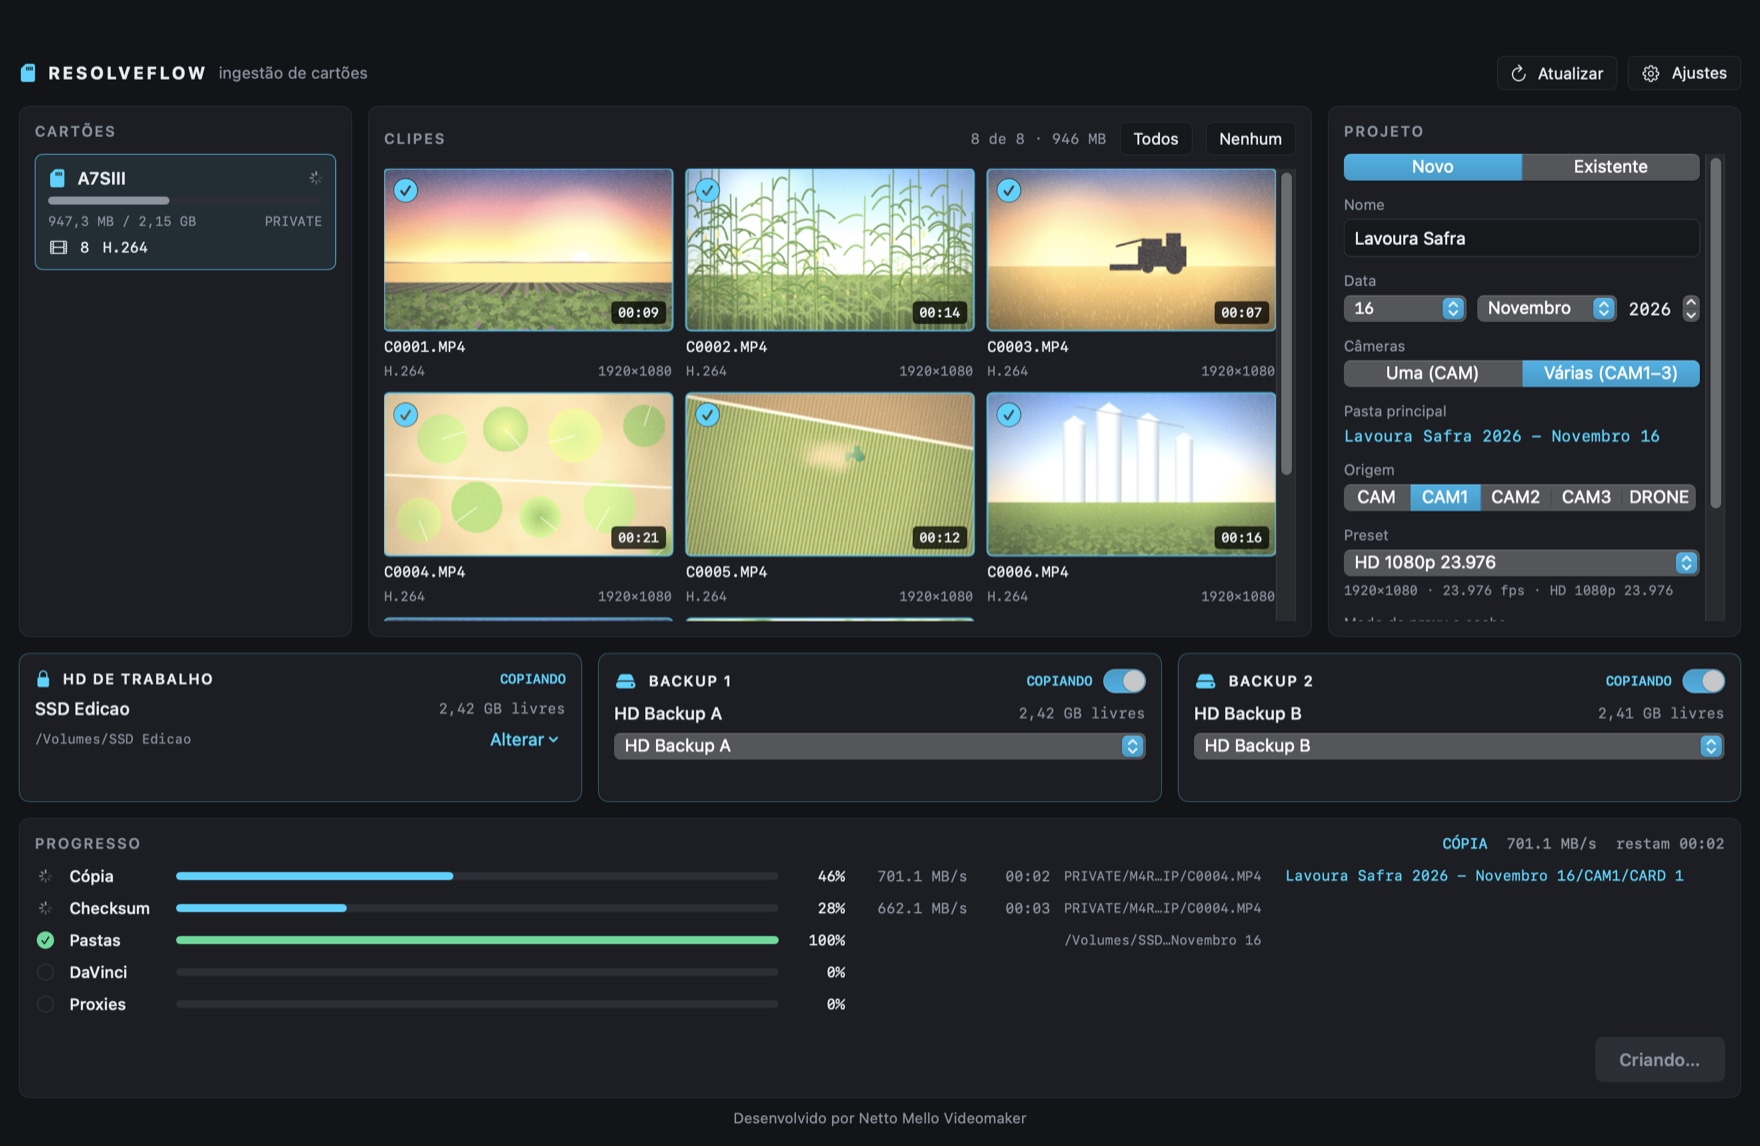
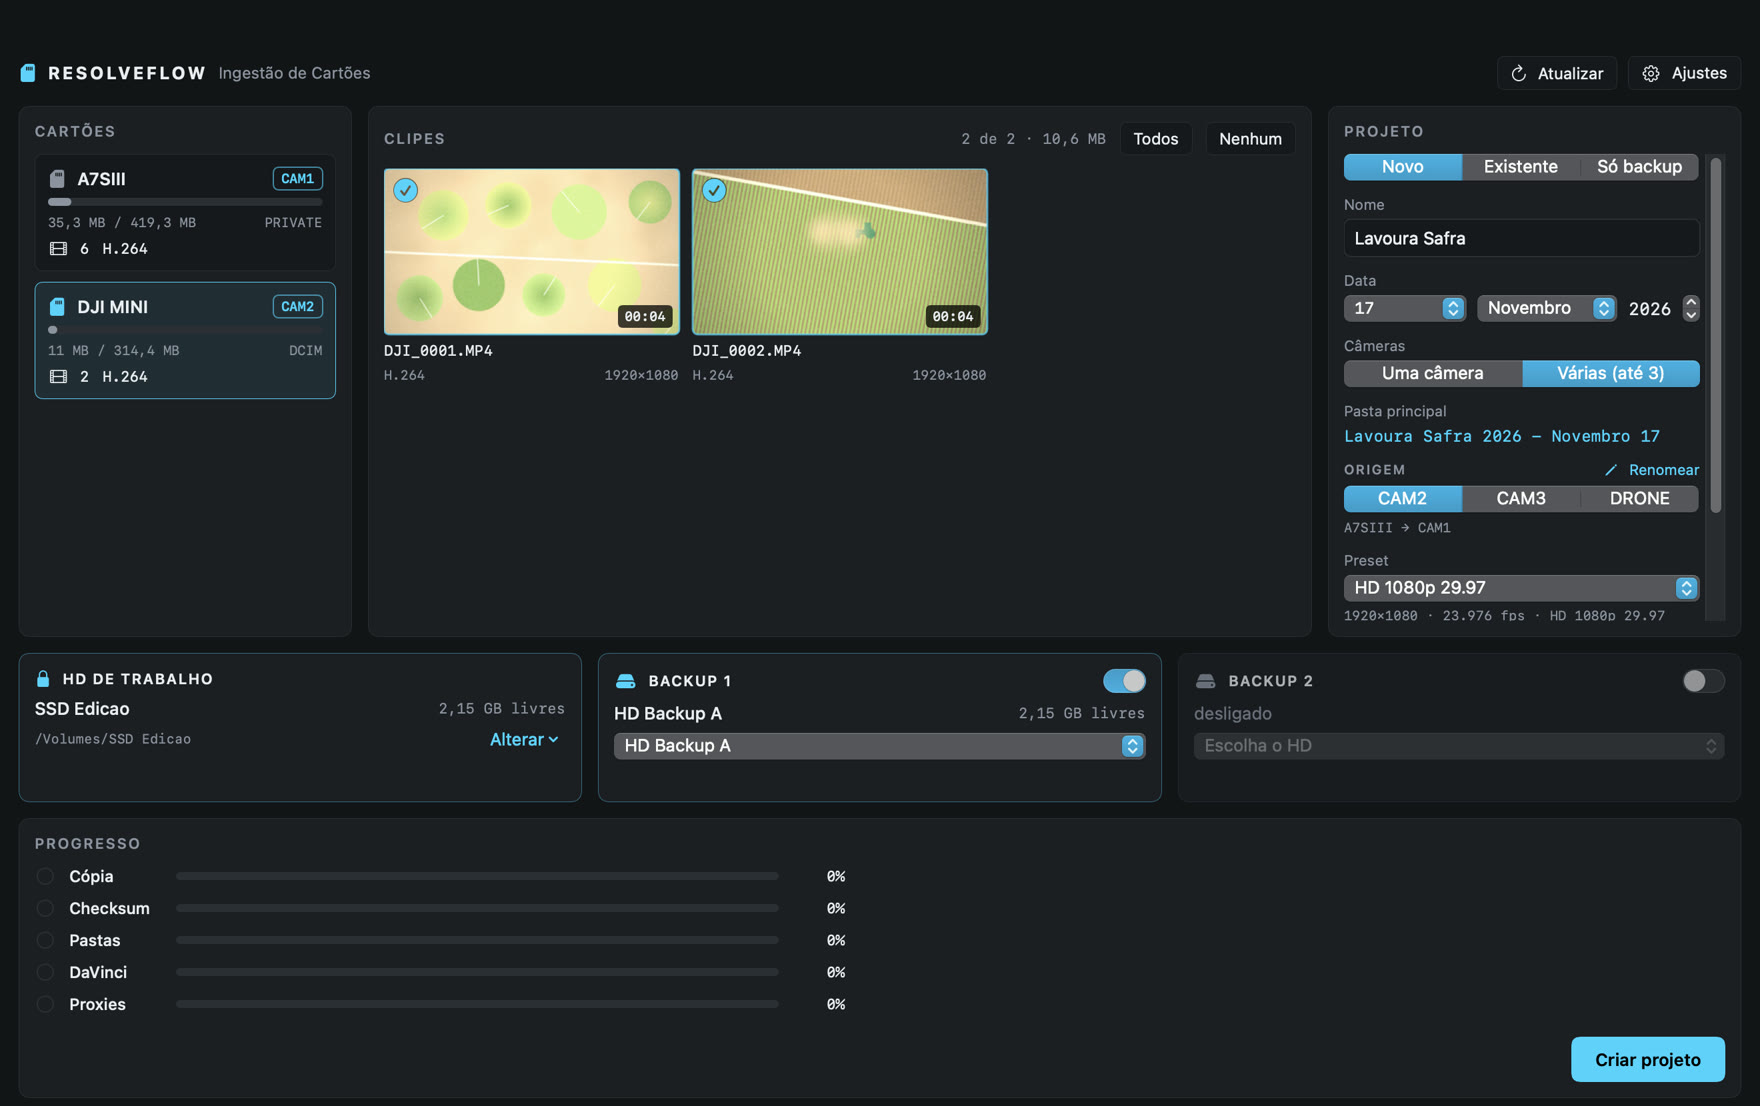
ResolveFlow 1.0.7

diff --git a/docs/index.html b/docs/index.html
@@ -58,7 +58,7 @@
             <img class="icone-flutuante" src="assets/icone.png" alt="Ícone do ResolveFlow" width="180" height="180">
             <div class="janela">
                 <div class="barra-janela"><span class="bolinhas"><i></i><i></i><i></i></span><span>ResolveFlow</span></div>
-                <img src="assets/app-principal.jpg" alt="Janela principal do ResolveFlow: cartões, clipes com miniaturas, projeto, destinos e progresso por etapa" width="1760" height="1146">
+                <img src="assets/app-principal.jpg" alt="Janela principal do ResolveFlow: cartões, clipes com miniaturas, projeto, destinos e progresso por etapa" width="1760" height="1106">
             </div>
         </figure>
     </section>
@@ -201,6 +201,12 @@
                 <p>Proxies ProRes com o timecode do original, ligados a cada clipe. Modos “Arquivos pesados”, “Arquivos leves” e “Manual”.</p></article>
             <article class="recurso"><span class="icone">⏸</span><h3>À prova de tropeço</h3>
                 <p>Se um HD sair no meio, só ele pausa e retoma quando voltar. Dois cartões ao mesmo tempo copiam em paralelo.</p></article>
+            <article class="recurso"><span class="icone">⇉</span><h3>Só backup <em class="novo">novo</em></h3>
+                <p>Chegou da gravação e só quer garantir os arquivos? Escolha “Só backup”: copia e confere por SHA-256 em até 3 HDs, sem criar as pastas do projeto nem abrir o DaVinci.</p></article>
+            <article class="recurso"><span class="icone">⇄</span><h3>Uma origem por cartão <em class="novo">novo</em></h3>
+                <p>Com dois ou mais cartões inseridos, cada um fica com a sua origem: o primeiro vai para CAM1 e o segundo já aparece só com as que estão livres.</p></article>
+            <article class="recurso"><span class="icone">✎</span><h3>Pastas com o seu nome <em class="novo">novo</em></h3>
+                <p>Renomeie CAM, CAM1, CAM2, CAM3 e DRONE no próprio painel (ex.: FX3, A7SIII, Mini 4). As pastas e os bins do DaVinci usam o nome que você escolher.</p></article>
         </div>
     </section>
 
@@ -240,7 +246,7 @@
             <p class="sub-secao">Cartões à esquerda, clipes no centro (marque só os que quer usar), projeto à direita. Nos Ajustes, presets de resolução e frame rate e os modos de proxy e cache.</p>
         </div>
         <div class="prints">
-            <figure class="print"><img src="assets/app-principal.jpg" alt="Janela principal do ResolveFlow" loading="lazy" width="1760" height="1146"><figcaption>Janela principal</figcaption></figure>
+            <figure class="print"><img src="assets/app-principal.jpg" alt="Janela principal do ResolveFlow" loading="lazy" width="1760" height="1106"><figcaption>Janela principal</figcaption></figure>
             <figure class="print"><img src="assets/app-ajustes.jpg" alt="Ajustes do ResolveFlow com presets e modos de proxy" loading="lazy" width="1760" height="1068"><figcaption>Ajustes</figcaption></figure>
         </div>
     </section>
@@ -339,6 +345,8 @@
             <details><summary>Por que ele pede para fechar o DaVinci?</summary><p>Para criar a biblioteca do projeto novo, o DaVinci precisa estar fechado: ele só lê a lista de bibliotecas ao abrir. Com o DaVinci fechado, o ResolveFlow cria a biblioteca e o abre sozinho. Ao abrir, clique em <b>OK</b> na lista de bibliotecas.</p></details>
             <details><summary>Como funcionam os modos de proxy e cache?</summary><p><b>Arquivos pesados</b>: Quarter, ProRes Proxy. <b>Arquivos leves</b>: Half, ProRes LT. <b>Manual</b>: você configura no DaVinci. Os codecs de mídia otimizada e render cache vêm de um preset de projeto que você salva uma vez no DaVinci; o ResolveFlow leva esse preset para todos os projetos novos.</p></details>
             <details><summary>E se um HD desconectar no meio da cópia?</summary><p>Só aquele HD pausa; os outros continuam. Quando ele volta, a cópia retoma sozinha. Se o cartão sair, tudo pausa até ele voltar.</p></details>
+            <details><summary>Posso só fazer o backup, sem criar o projeto?</summary><p>Sim. No painel do projeto, escolha <b>Só backup</b>, dê um nome e escolha os HDs. O cartão vai para “Nome AAAA - Mês DD/CARD 1” em cada HD, com o manifesto SHA-256, sem as pastas do projeto e sem abrir o DaVinci. Os próximos cartões viram CARD 2, CARD 3…</p></details>
+            <details><summary>Dá para trocar os nomes CAM1, CAM2, DRONE?</summary><p>Sim. Ao lado de <b>Origem</b>, clique em <b>Renomear</b> e dê o nome que quiser para cada pasta, como o modelo da câmera. Vale para os próximos cartões; pastas já criadas não mudam.</p></details>
             <details><summary>Posso copiar só alguns clipes?</summary><p>Sim. Na área de clipes, clique para desmarcar o que não quer. Só os marcados (e os arquivos que os acompanham, como o XML da Sony) são copiados.</p></details>
         </div>
     </section>
@@ -348,7 +356,7 @@
         <div class="baixar-conteudo">
             <img src="assets/icone.png" alt="" width="120" height="120" class="icone-baixar">
             <h2>Já comprou? Baixe aqui.</h2>
-            <p>ResolveFlow <span id="versao">v1.0.6</span> · a mesma chave vale no Mac e no Windows</p>
+            <p>ResolveFlow <span id="versao">v1.0.7</span> · a mesma chave vale no Mac e no Windows</p>
             <div class="downloads">
                 <a class="botao botao-grande" data-download="mac" href="#">
                     <svg viewBox="0 0 24 24" aria-hidden="true"><path d="M12 3v12m0 0l-5-5m5 5l5-5M4 21h16"/></svg>
@@ -408,7 +416,7 @@
 <footer class="rodape">
     <div>
         <span class="marca"><img class="logo" src="assets/favicon.png" alt="" width="26" height="26"><span>Resolve<b>Flow</b></span></span>
-        <p>Desenvolvido por <b>Netto Mello Videomaker</b> · <span id="versaoRodape">versão 1.0.6</span> · <a href="#comprar">Comprar</a></p>
+        <p>Desenvolvido por <b>Netto Mello Videomaker</b> · <span id="versaoRodape">versão 1.0.7</span> · <a href="#comprar">Comprar</a></p>
     </div>
     <p class="aviso-legal">DaVinci Resolve é marca da Blackmagic Design. O ResolveFlow é um app independente,
         sem vínculo com a Blackmagic Design.</p>

diff --git a/docs/assets/site.css b/docs/assets/site.css
@@ -321,3 +321,4 @@ h2 { font-size: clamp(28px, 3.6vw, 42px); line-height: 1.12; letter-spacing: -.0
     html:not(.forcar-anim) .pacotes, html:not(.forcar-anim) .linha-fluxo { opacity: 0; }
     html:not(.forcar-anim) .fase { fill: var(--suave); }
 }
+.recurso h3 .novo { font-style: normal; font-size: 10px; font-weight: 700; letter-spacing: .08em; text-transform: uppercase; color: #05080b; background: linear-gradient(90deg, #38d9ff, #3b82ff); border-radius: 999px; padding: 2px 8px; margin-left: 6px; vertical-align: 3px; }

diff --git a/docs/assets/config.js b/docs/assets/config.js
@@ -4,7 +4,7 @@ window.CONFIG = {
     repo: "nettomelloav/resolveflow",
     arquivo: "ResolveFlow.dmg",
     arquivoWindows: "ResolveFlow-Setup.exe",
-    versao: "1.0.6",
+    versao: "1.0.7",
     preco: "49,97",
     whatsapp: "5562992844088",  // recebe o comprovante do Pix
 };
